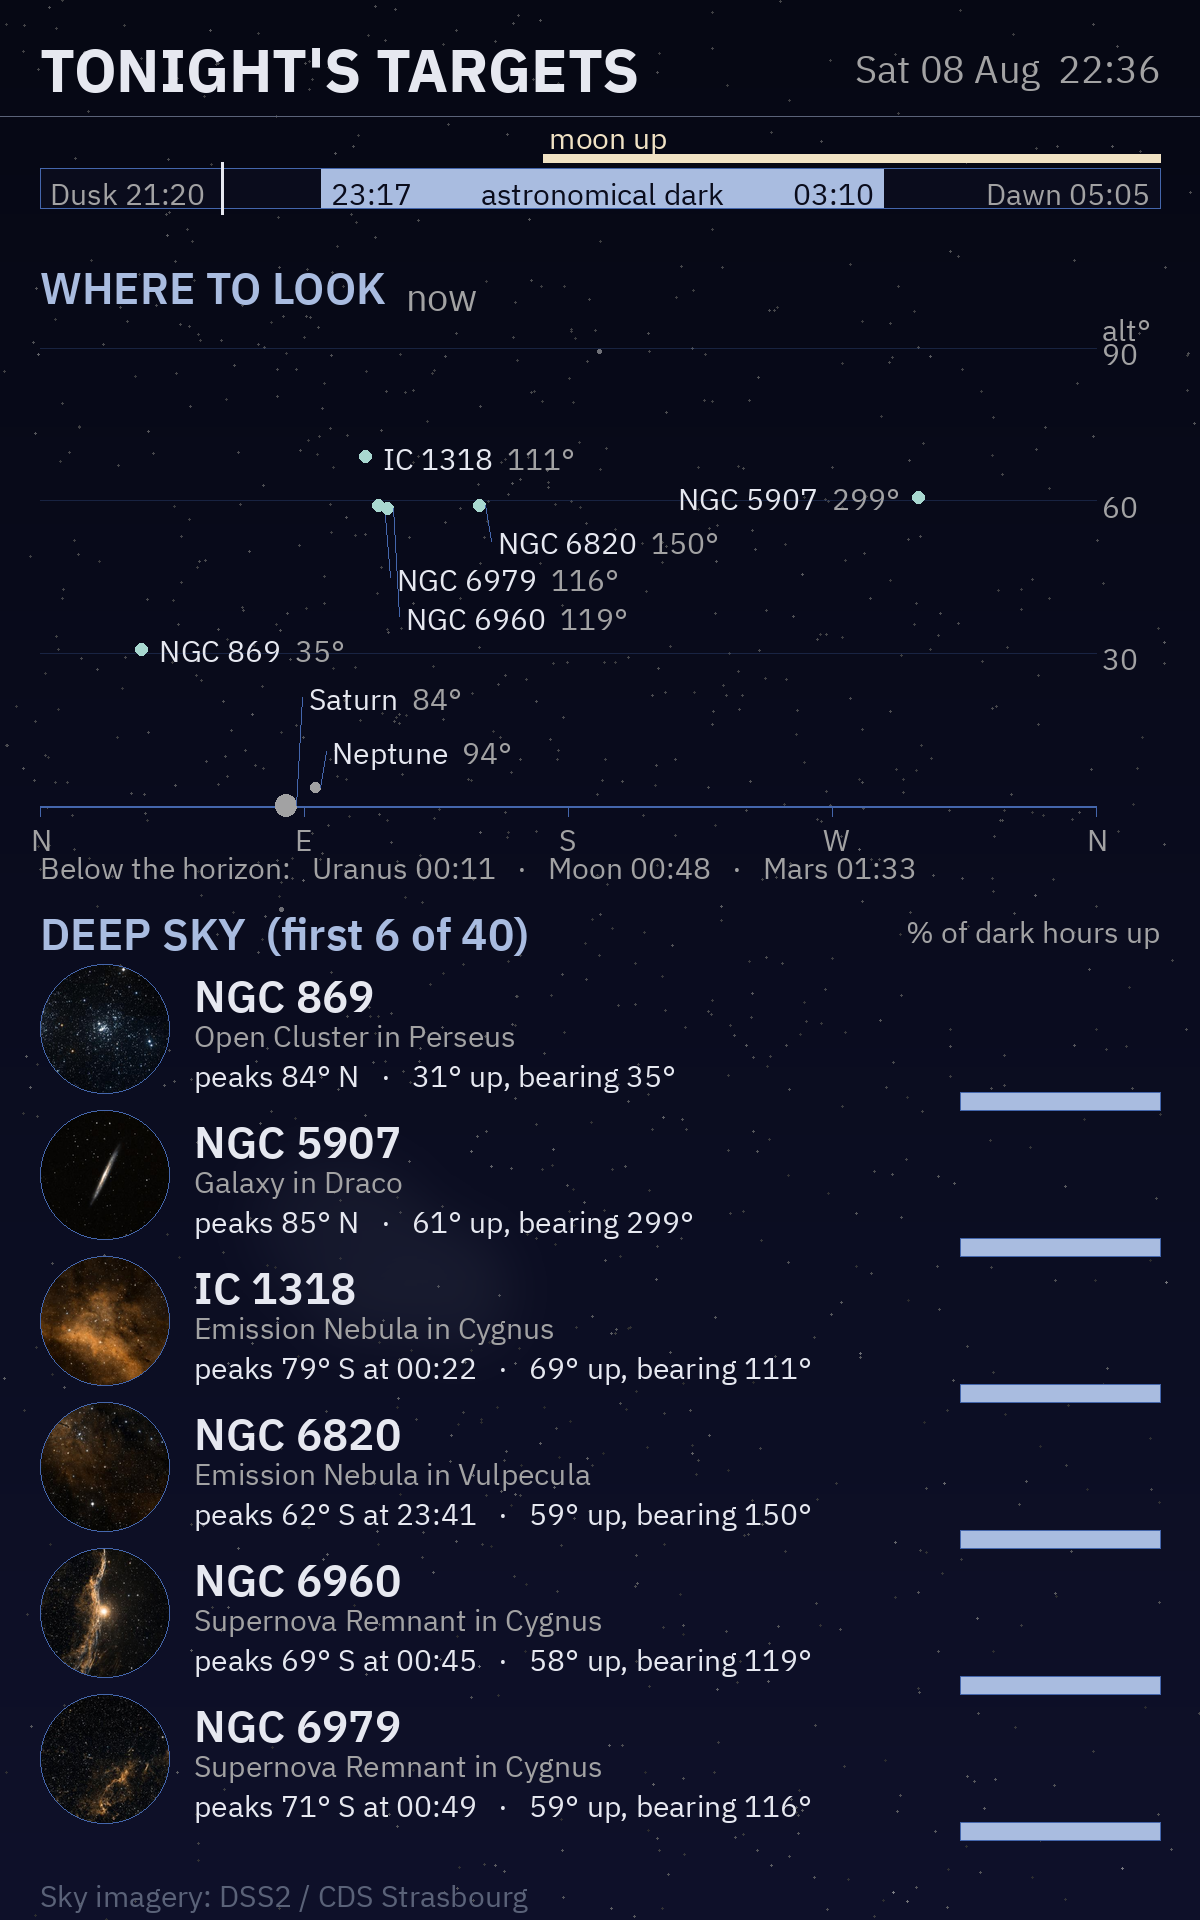
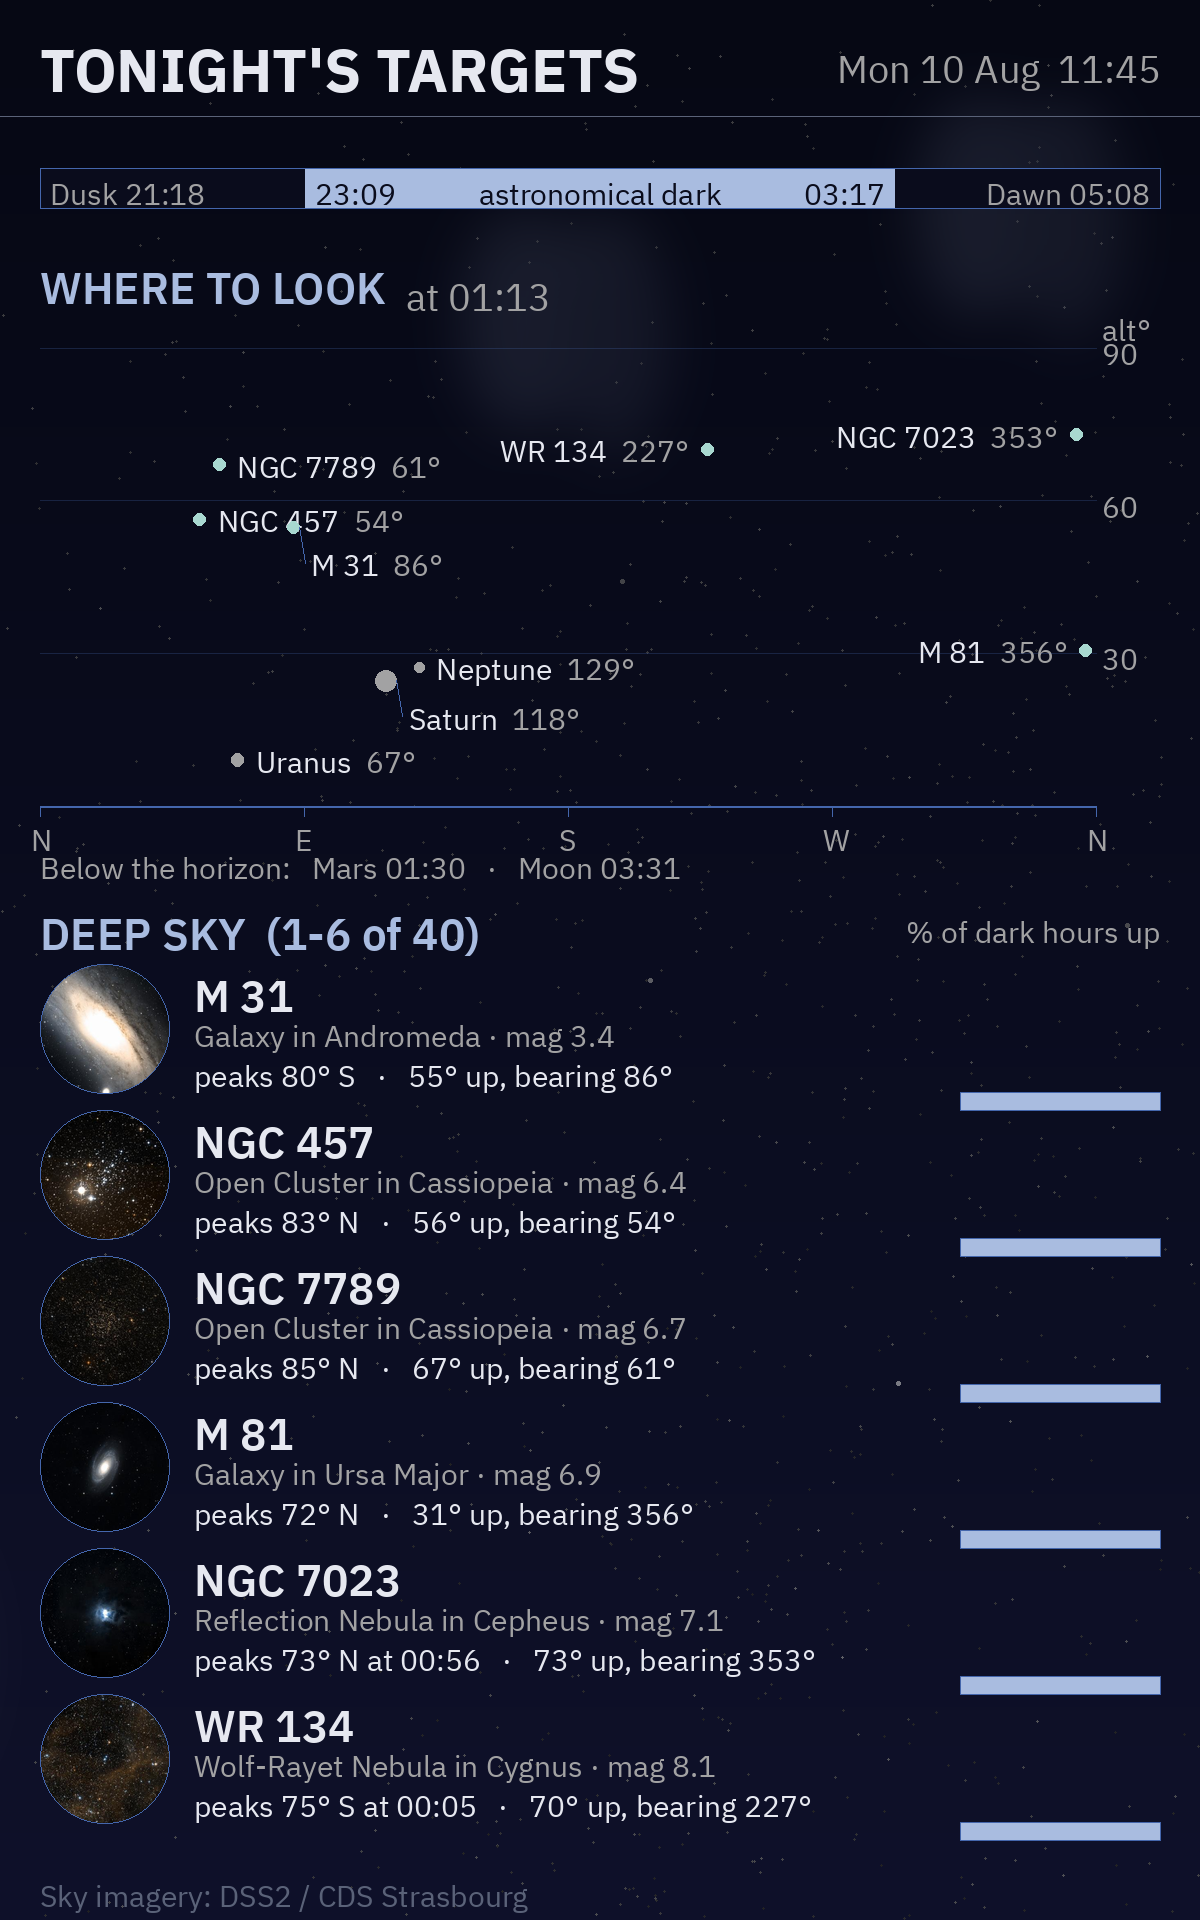
Retake both targets screenshots after the ranking and paging changes
Stale twice over. The ranking fix reordered the cards - the old captures led
with LBN and Sh2 catalogue nebulae that only ranked first because their
magnitude field was empty - and the paging change rewrote the heading from
"first 6 of 40" to a range. Both now open on M 31.

Rendered from the deployed builds, so the images agree with what is on the
panels rather than with the working tree.

Alt text follows the images. The 5-inch text described a moon-up strip above the
timeline, which only appears when the Moon is up during the window and is not
there tonight, and the 10-inch text pinned the plot to "six objects between 30
and 68 degrees". Both are now written in terms of what the page always shows -
a range out of a longer list, the plot carrying the same objects as the cards -
rather than figures that go stale the next time it is captured.

Docs only; no version bump.

diff --git a/README.md b/README.md
@@ -42,7 +42,7 @@ Two pages rotate over the same continuous animated sky. Both shots are real fram
 
 **Page 2 — tonight's targets**
 
-![The targets page: a dusk-to-dawn timeline with the astronomical dark window highlighted and a moon-up strip above it; an altitude-versus-bearing plot of the Moon and planets, with a line beneath it naming the bodies still below the horizon and the times they rise; and four deep-sky cards, each with a real sky photograph, object type, constellation, peak altitude and time.](screenshots/targets.png)
+![The 5-inch targets page: a dusk-to-dawn timeline with the astronomical dark window highlighted; an altitude-versus-bearing plot of the planets, with a line beneath it naming the bodies still below the horizon and the times they rise; and four deep-sky cards headed with the range on show out of a much longer list, each card carrying a real sky photograph, object type, constellation, peak altitude and a bar for the share of the dark hours the object stays up.](screenshots/targets.png)
 
 The page-2 timeline only appears once UpTonight has run, and the page leaves the rotation entirely if it has produced nothing, so an empty page is never shown.
 
@@ -68,7 +68,7 @@ Portrait, 2.5× the pixels at slightly lower density, so the space goes on conte
 
 **Page 2 — targets.** One altitude-versus-bearing plot carries the planets *and* the deep-sky objects on a full 0–90° axis. The 5" build keeps the two apart because it has far less vertical room: UpTonight selects deep-sky targets for high altitude, while the planets stay near the ecliptic and so occupy a lower band, and a short axis holding both compresses whichever band is lower. How far apart those bands sit depends on latitude — from the reference site at 51°N the objects peak around 70–85° and the planets stay below about 35°, but nearer the equator the ecliptic rides much higher and the two overlap. Every position on the plot is for the single instant named above it.
 
-![The 10.1-inch targets page: a dusk-to-dawn timeline, then an altitude-versus-bearing plot showing six deep-sky objects between 30 and 68 degrees and Neptune just above the horizon, each labelled with its bearing, then a line naming the bodies still below the horizon with the times they rise, above six deep-sky cards with real sky photographs.](screenshots/10in-targets.png)
+![The 10.1-inch targets page: a dusk-to-dawn timeline; an altitude-versus-bearing plot carrying the planets alongside the same deep-sky objects as the cards below, each labelled with its bearing; a line naming the bodies still below the horizon with the times they rise; and six deep-sky cards headed with the range on show out of a much longer list, each with a real sky photograph, object type, constellation, peak altitude and where it stands at the plotted instant.](screenshots/10in-targets.png)
 
 **Page 3 — meteors.** Which showers are actually running, from a table of orbital constants indexed by solar longitude, with the rate an observer would really count once radiant altitude, cloud and moonlight are accounted for.
 
